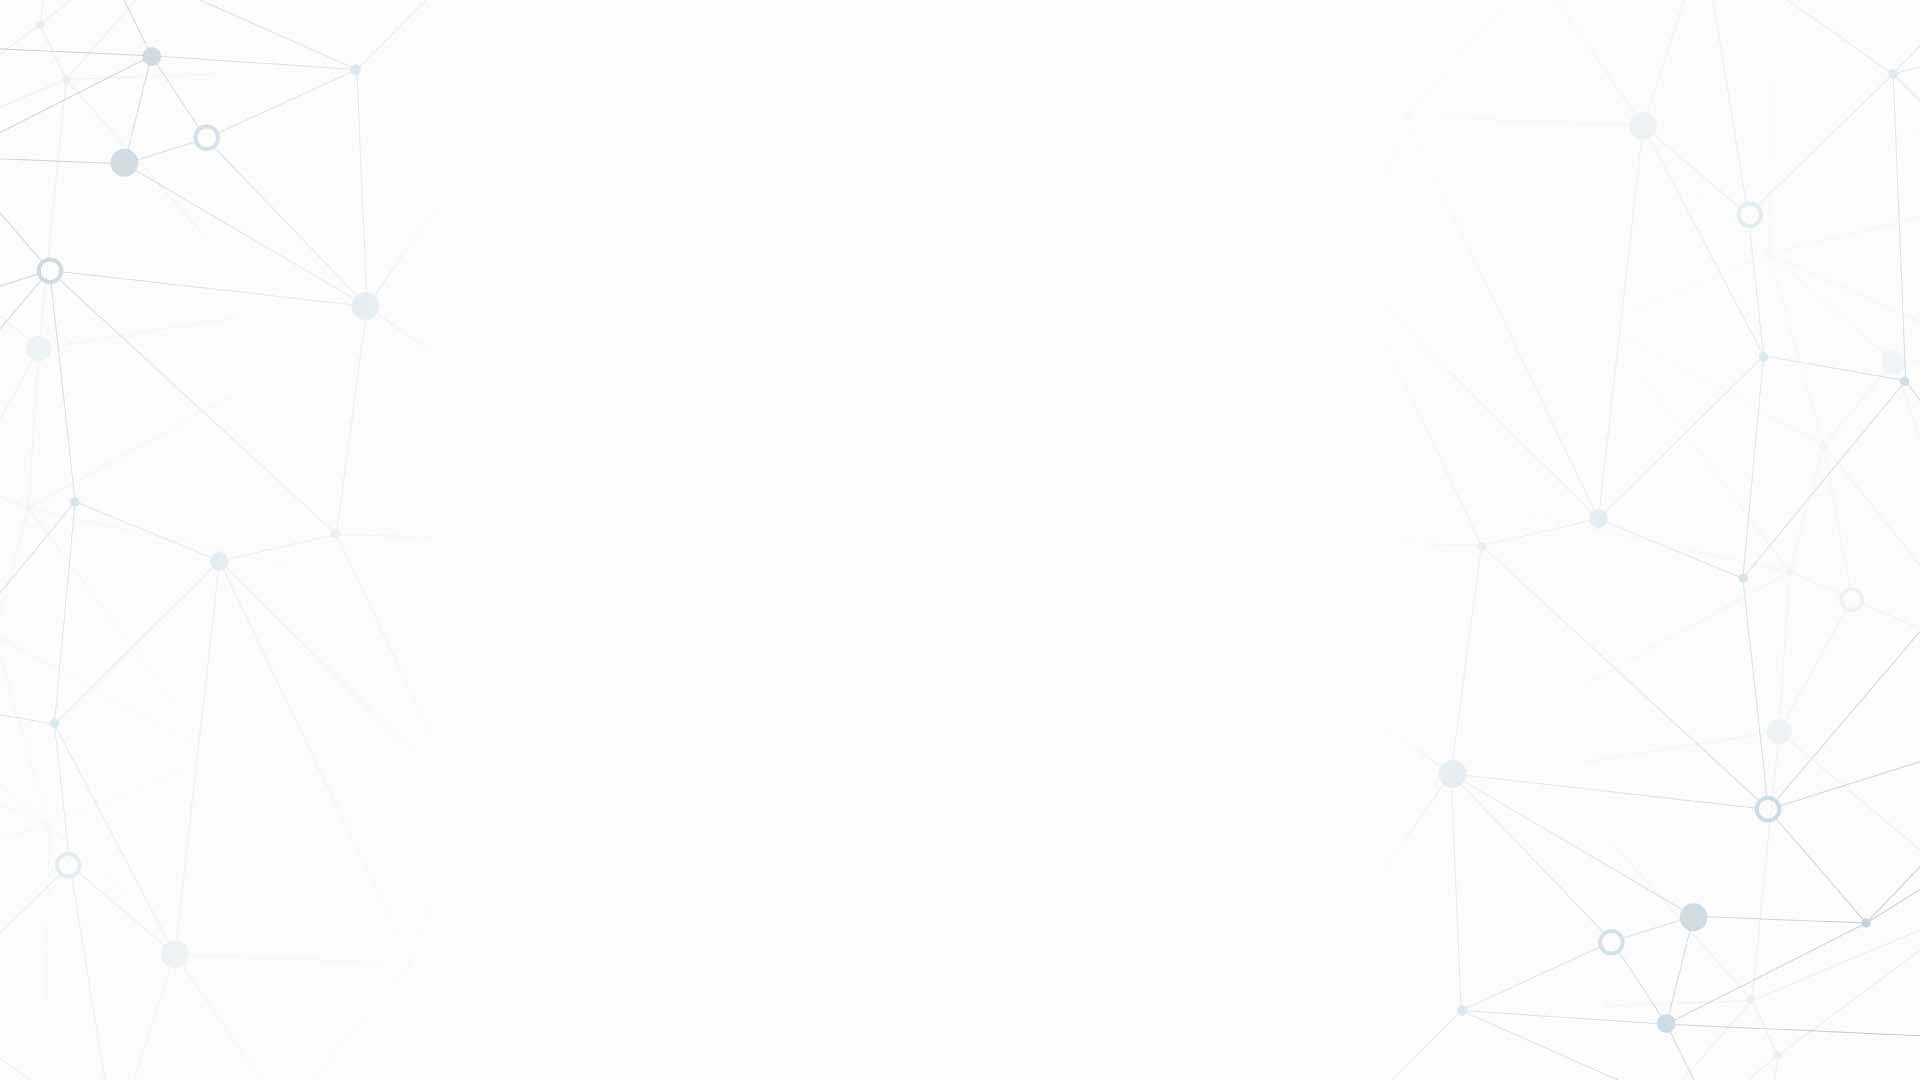
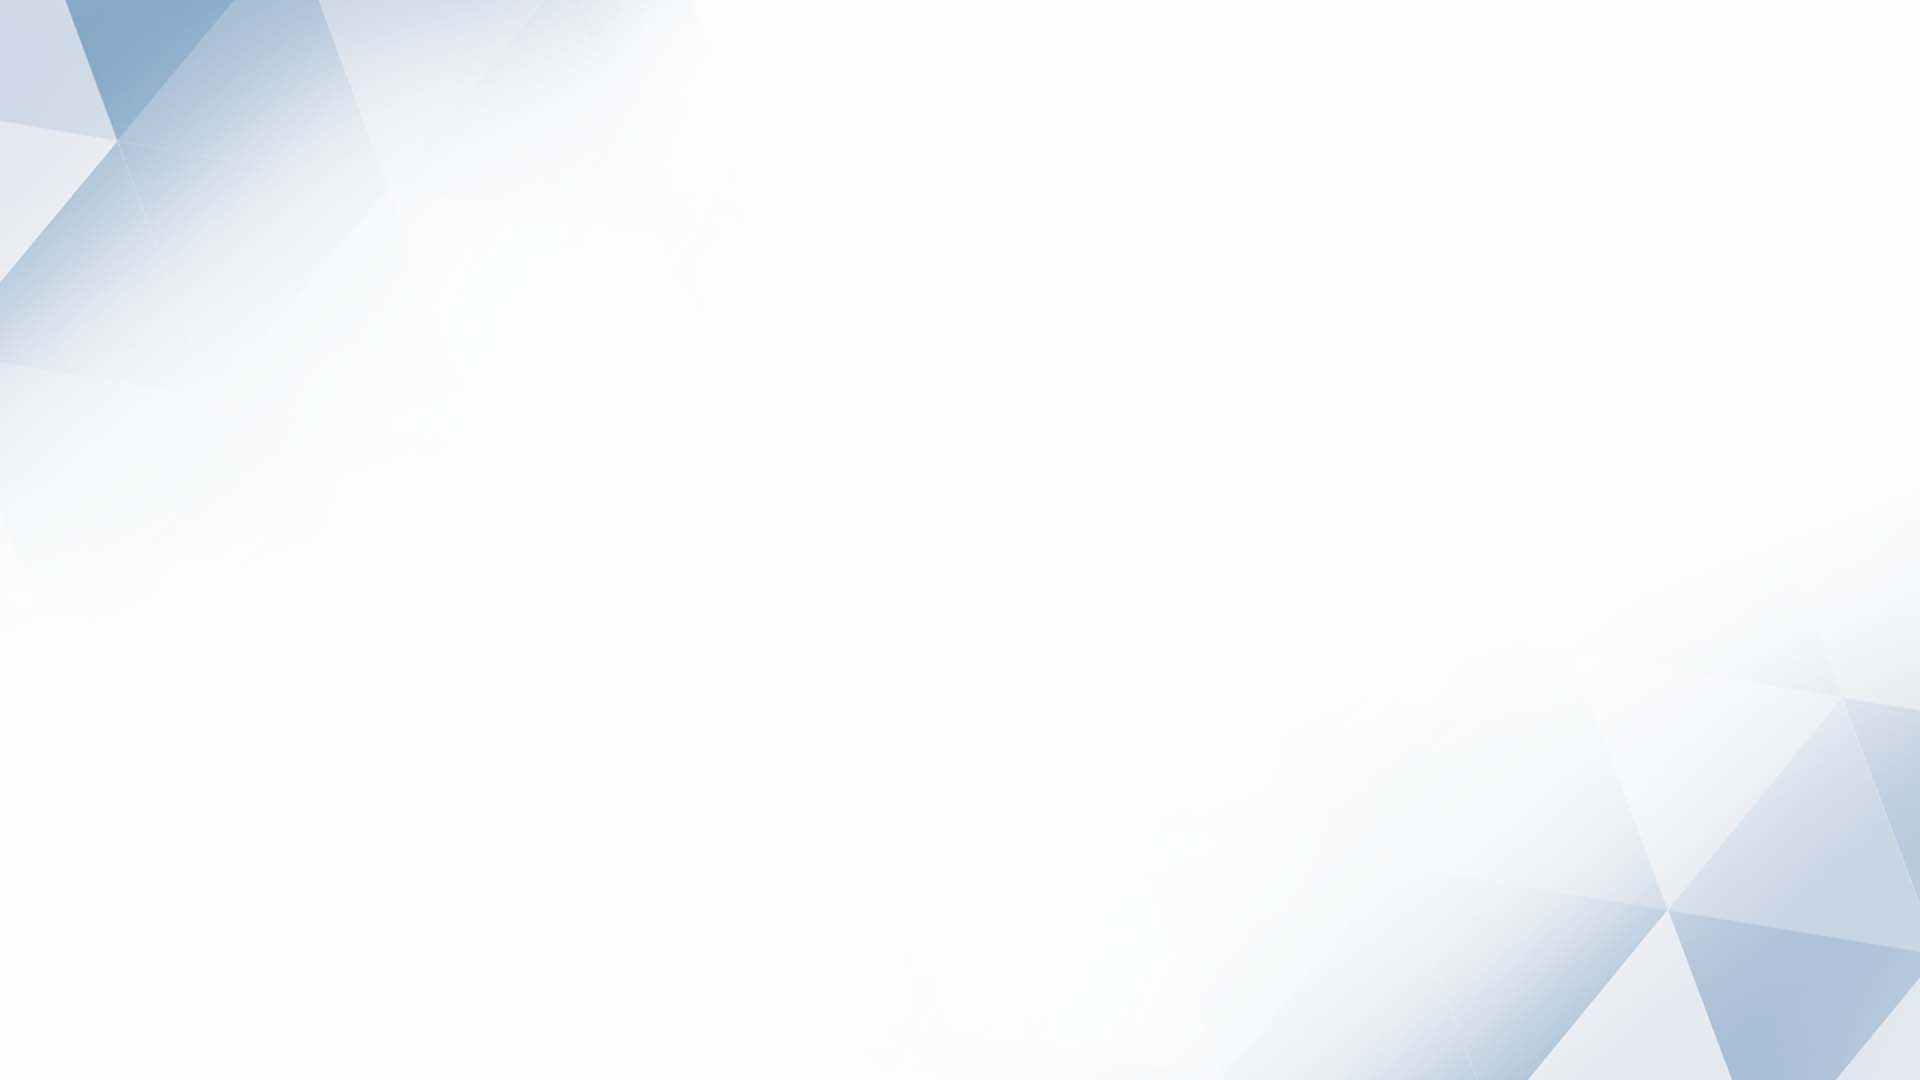
fix: save lang in ls, styles; T: 11-02-2025 15:17

Changed region(s): [[0.6875, 0.6417, 1.0, 1.0], [0.0, 0.0, 0.3125, 0.3667]]

diff --git a/src/i18n.ts b/src/i18n.ts
@@ -1,22 +1,20 @@
 import i18n from 'i18next';
-import LanguageDetector from 'i18next-browser-languagedetector';
 import { initReactI18next } from 'react-i18next';
 import en from './locales/en.json';
 import ru from './locales/ru.json';
 
+const getLangFromLS = localStorage.getItem('lang') ?? 'ru';
+
 // Конфигурация i18next
-i18n
-  .use(LanguageDetector) // Определение языка пользователя (на основе браузера)
-  .use(initReactI18next) // Интеграция с React
-  .init({
-    resources: {
-      en: { translation: en },
-      ru: { translation: ru },
-    },
-    fallbackLng: 'ru', // Язык по умолчанию
-    interpolation: {
-      escapeValue: false,
-    },
-  });
+i18n.use(initReactI18next).init({
+  resources: {
+    en: { translation: en },
+    ru: { translation: ru },
+  },
+  fallbackLng: getLangFromLS,
+  interpolation: {
+    escapeValue: false,
+  },
+});
 
 export default i18n;

diff --git a/src/styles/global.scss b/src/styles/global.scss
@@ -23,8 +23,10 @@ body {
   color: var(--clr-fg);
   // background: var(--clr-bg);
   background: var(--bg);
-  background-attachment: fixed;
-  background-size: cover;
+  background-size: cover; /* Масштабирование на весь экран */
+  background-position: center; /* Центрирование */
+  background-repeat: no-repeat; /* Отключаем повтор */
+  background-attachment: fixed; /* Фон остаётся на месте при прокрутке */
 }
 
 ::-moz-selection {

diff --git a/src/components/ToggleLanguage/index.tsx b/src/components/ToggleLanguage/index.tsx
@@ -3,9 +3,10 @@ import styles from './index.module.scss';
 
 export default function ToggleLanguage(): JSX.Element {
   const currentLanguage = i18n.language;
+  localStorage.setItem('lang', currentLanguage);
 
   const toggleLanguage = (): void => {
-    const newLanguage = currentLanguage === 'en' ? 'ru' : 'en';
+    const newLanguage = currentLanguage === 'ru' ? 'en' : 'ru';
     i18n.changeLanguage(newLanguage);
   };
 

diff --git a/src/styles/_vars.scss b/src/styles/_vars.scss
@@ -10,7 +10,7 @@
   --clr-bg-alt: #fff;
   --clr-fg: #555;
   --clr-fg-alt: #444;
-  --clr-primary: #2978b5;
+  --clr-primary: #38719c;
   --clr-light: #f0f0f0;
   --shadow: rgba(100, 100, 111, 0.2) 0px 7px 29px 0px;
   --bg: url('../../public/assets/img/background.jpg');
